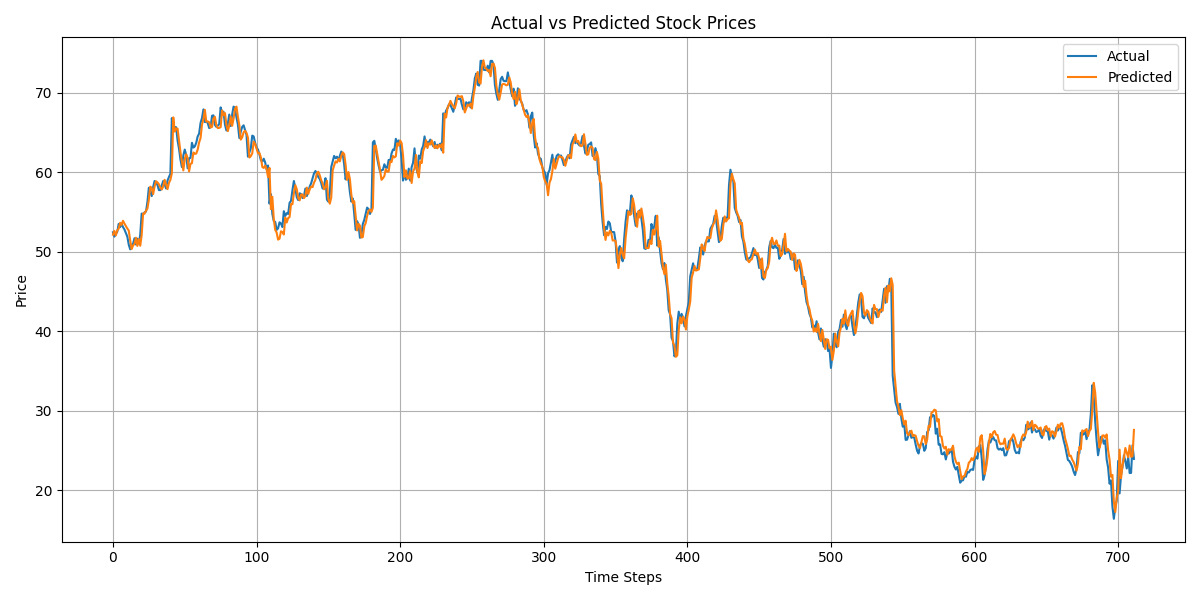
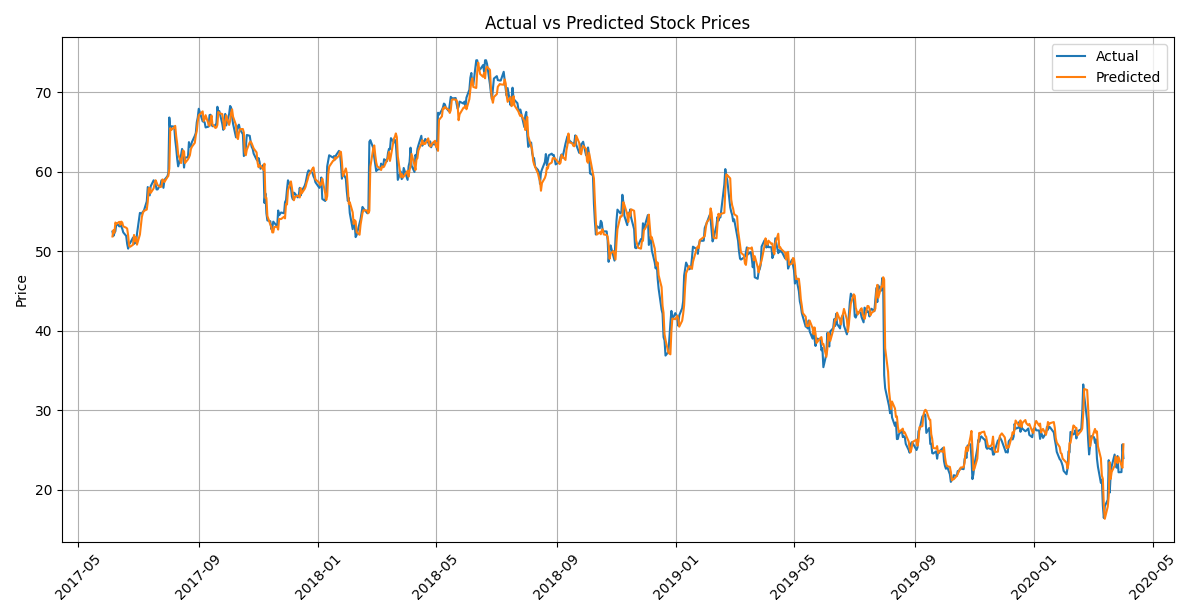
Added indicators for lstm model. Modified x-axis to output dates

diff --git a/src/models/lstm_model.py b/src/models/lstm_model.py
@@ -12,6 +12,8 @@ from sklearn.metrics import mean_squared_error, mean_absolute_error, r2_score
 import tensorflow as tf
 from tensorflow.keras.models import Sequential
 from tensorflow.keras.layers import LSTM, Dense
+from src.train import visualize_technical_indicators
+
 
 
 def create_lstm_dataset(X, y, time_steps=1):
@@ -28,7 +30,7 @@ def create_lstm_dataset(X, y, time_steps=1):
 
 def train_lstm_model(csv_file: str, time_steps: int = 1, epochs: int = 30, batch_size: int = 32):
     """
-    Train an LSTM model on stock data.
+    Train an LSTM model using engineered features.
 
     Args:
         csv_file (str): Path to the cleaned stock CSV file
@@ -36,19 +38,32 @@ def train_lstm_model(csv_file: str, time_steps: int = 1, epochs: int = 30, batch
         epochs (int): Number of training epochs
         batch_size (int): Batch size for training
     """
-    # Load data
+    # Load raw data
     df = pd.read_csv(csv_file)
 
-    # Engineer features (assuming you already have engineer_features implemented)
+    # Engineer features with volume profile
     from src.preprocess import engineer_features
-    data = engineer_features(df)
+    data = engineer_features(df, include_volume_profile=True)
 
-    # Features and target
-    feature_cols = data.columns.difference(['Date', 'Close', 'Adj Close'])
-    X = data[feature_cols]
+    # Selected features used in traditional models
+    selected_features = [
+        'EMA_20d', 'EMA_50d',
+        'RSI_14d', 'StochRSI_K', 'StochRSI_D',
+        'MACD', 'MACD_Signal', 'MACD_Histogram',
+        'Volume', 'Vol_MA_20d', 'Vol_Ratio',
+        'Dist_EMA20', 'Dist_EMA50', 'EMA20_cross_EMA50'
+    ]
+
+    # Filter only available features
+    available_features = [col for col in selected_features if col in data.columns]
+    missing_features = set(selected_features) - set(available_features)
+    if missing_features:
+        print(f"⚠️ Warning: Missing features (skipped): {missing_features}")
+
+    X = data[available_features]
     y = data['Close']
 
-    # Normalize features
+    # Normalize
     scaler_X = MinMaxScaler()
     scaler_y = MinMaxScaler()
     X_scaled = scaler_X.fit_transform(X)
@@ -57,7 +72,7 @@ def train_lstm_model(csv_file: str, time_steps: int = 1, epochs: int = 30, batch
     # Create LSTM datasets
     X_seq, y_seq = create_lstm_dataset(X_scaled, y_scaled, time_steps)
 
-    # Train-test split (chronological)
+    # Train-test split
     split_index = int(0.8 * len(X_seq))
     X_train, X_test = X_seq[:split_index], X_seq[split_index:]
     y_train, y_test = y_seq[:split_index], y_seq[split_index:]
@@ -67,10 +82,9 @@ def train_lstm_model(csv_file: str, time_steps: int = 1, epochs: int = 30, batch
         LSTM(64, input_shape=(X_train.shape[1], X_train.shape[2]), return_sequences=False),
         Dense(1)
     ])
-
     model.compile(optimizer='adam', loss='mse')
 
-    # Train model
+    # Train
     history = model.fit(
         X_train, y_train,
         validation_data=(X_test, y_test),
@@ -84,28 +98,46 @@ def train_lstm_model(csv_file: str, time_steps: int = 1, epochs: int = 30, batch
     y_pred = scaler_y.inverse_transform(y_pred_scaled.reshape(-1, 1)).flatten()
     y_test_true = scaler_y.inverse_transform(y_test.reshape(-1, 1)).flatten()
 
-    # Evaluate
+    # Evaluation
     mse = mean_squared_error(y_test_true, y_pred)
     rmse = np.sqrt(mse)
     mae = mean_absolute_error(y_test_true, y_pred)
     r2 = r2_score(y_test_true, y_pred)
+    y_true_dir = np.sign(np.diff(np.append([y_test_true[0]], y_test_true)))
+    y_pred_dir = np.sign(np.diff(np.append([y_test_true[0]], y_pred)))
+    direction_accuracy = np.mean(y_true_dir == y_pred_dir)
+    
+        # Visualization (rich indicators)
+    try:
+        data_with_index = data.set_index(pd.to_datetime(df['Date'][-len(data):]))
 
-    # Direction Accuracy
-    y_true_direction = np.sign(np.diff(np.append([y_test_true[0]], y_test_true)))
-    y_pred_direction = np.sign(np.diff(np.append([y_test_true[0]], y_pred)))
-    direction_accuracy = np.mean(y_true_direction == y_pred_direction)
+        # Get last N rows matching predictions
+        test_data = data_with_index.iloc[-len(y_pred):]
 
-    # Print evaluation
+
+        visualize_technical_indicators(
+            df=test_data,
+            predictions=y_pred,
+            forecast_horizon=1,
+            fig_path="report/technical_indicators_lstm.png"
+        )
+
+    except Exception as e:
+        print(f"⚠️ Skipping technical indicator plot due to error: {e}")
+
+
+    # Print metrics
     print("\nEvaluation Metrics:")
-    print(f"MSE: {mse:.4f}")
-    print(f"RMSE: {rmse:.4f}")
-    print(f"MAE: {mae:.4f}")
-    print(f"R2 Score: {r2:.4f}")
-    print(f"Direction Accuracy: {direction_accuracy:.4f}")
+    print(f"MSE: {mse:.4f} | RMSE: {rmse:.4f} | MAE: {mae:.4f} | R2: {r2:.4f} | Direction Accuracy: {direction_accuracy:.4f}")
+    df['Date'] = pd.to_datetime(df['Date'])  # ensure datetime
+    date_index = df['Date'].iloc[-len(y_pred):]
 
-    plot_actual_vs_predicted(y_test_true, y_pred, save_path="report/actual_vs_predicted.png")
+    # Plot
+    plot_actual_vs_predicted(y_test_true, y_pred, date_index=date_index, save_path="report/actual_vs_predicted.png")
+
 
     return model, history
+
 
 def plot_training_history(history, save_path="report/loss_plot.png"):
     """
@@ -131,29 +163,43 @@ def plot_training_history(history, save_path="report/loss_plot.png"):
     # Also show the plot (optional)
     plt.show()
     
-def plot_actual_vs_predicted(y_true, y_pred, save_path="report/actual_vs_predicted.png"):
+def plot_actual_vs_predicted(y_true, y_pred, date_index=None, save_path="report/actual_vs_predicted.png"):
     """
     Plot Actual vs Predicted stock prices and save the plot.
+    
+    Args:
+        y_true (array-like): True stock prices
+        y_pred (array-like): Predicted stock prices
+        date_index (array-like, optional): Optional datetime index for x-axis
+        save_path (str): File path to save the figure
     """
     plt.figure(figsize=(12, 6))
-    plt.plot(y_true, label='Actual')
-    plt.plot(y_pred, label='Predicted')
+
+    x = date_index if date_index is not None else range(len(y_true))
+
+    plt.plot(x, y_true, label='Actual')
+    plt.plot(x, y_pred, label='Predicted')
     plt.title('Actual vs Predicted Stock Prices')
-    plt.xlabel('Time Steps')
+    plt.xlabel('Date' if date_index is not None else 'Time Steps')
     plt.ylabel('Price')
     plt.legend()
     plt.grid(True)
     plt.tight_layout()
-    
+
+    # Rotate x-axis labels if it's datetime
+    if date_index is not None:
+        plt.xticks(rotation=45)
+
     # Create the directory if it does not exist
     os.makedirs(os.path.dirname(save_path), exist_ok=True)
-    
+
     # Save the figure
     plt.savefig(save_path)
     print(f"✅ Actual vs Predicted plot saved to {save_path}")
-    
+
     # Show the plot
     plt.show()
+
 
 
 # Example usage (you can comment this out if importing)

diff --git a/src/train.py b/src/train.py
@@ -19,7 +19,7 @@ from typing import Dict, Any, Optional, Tuple, List
 sys.path.append(os.path.dirname(os.path.dirname(os.path.abspath(__file__))))
 
 from src.preprocess import process_data
-from models.models import get_model
+from src.models.models import get_model
 
 
 def train_model(
@@ -214,35 +214,42 @@ def evaluate_model(
     
     # Visualize predictions if requested
     if visualize:
-        # Basic visualization of predictions vs actual
+        # Ensure datetime index from raw_data
+        date_index = None
+        if raw_data is not None and 'Date' in raw_data.columns:
+            raw_data['Date'] = pd.to_datetime(raw_data['Date'])
+            raw_data = raw_data.set_index('Date')
+            date_index = raw_data.index[-len(y_pred):]  # match prediction length
+
+        # Plot Actual vs Predicted with datetime X-axis
         plt.figure(figsize=(12, 6))
-        plt.plot(y_test.values, label='Actual')
-        plt.plot(y_pred, label='Predicted')
+        x_axis = date_index if date_index is not None else range(len(y_pred))
+        plt.plot(x_axis, y_test.values, label='Actual')
+        plt.plot(x_axis, y_pred, label='Predicted')
         plt.title('Actual vs Predicted Stock Prices')
-        plt.xlabel('Time')
+        plt.xlabel('Date' if date_index is not None else 'Time')
         plt.ylabel('Price')
         plt.legend()
         plt.grid(True)
-        
+        plt.tight_layout()
+
         if fig_path:
             os.makedirs(os.path.dirname(fig_path), exist_ok=True)
             plt.savefig(fig_path)
             print(f"Figure saved to {fig_path}")
         else:
             plt.show()
-        
-        # Technical indicators visualization if raw data is provided
+
+        # Technical indicators visualization
         if raw_data is not None and tech_indicators_fig_path:
-            # Get the portion of raw_data that corresponds to X_test
-            if len(raw_data) > len(X_test):
-                # Align the raw data with test data
-                test_data = raw_data.iloc[-len(X_test):]
-                visualize_technical_indicators(
-                    test_data, 
-                    predictions=y_pred,
-                    forecast_horizon=forecast_horizon,
-                    fig_path=tech_indicators_fig_path
-                )
+            test_data = raw_data.iloc[-len(y_pred):]
+            visualize_technical_indicators(
+                df=test_data,
+                predictions=y_pred,
+                forecast_horizon=forecast_horizon,
+                fig_path=tech_indicators_fig_path
+            )
+
     
     return metrics
 